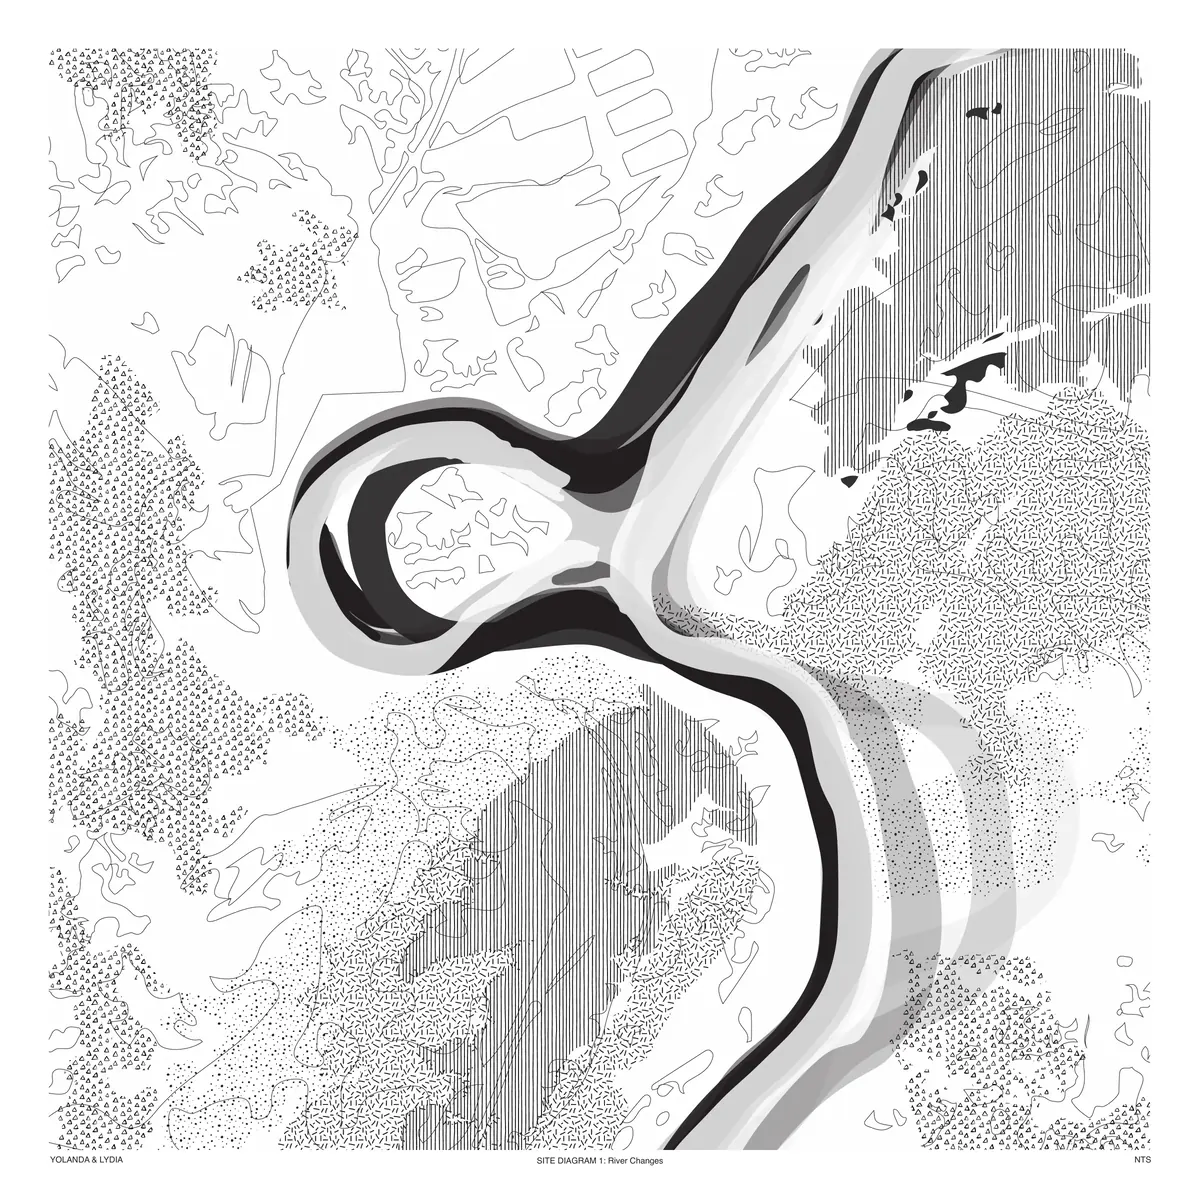
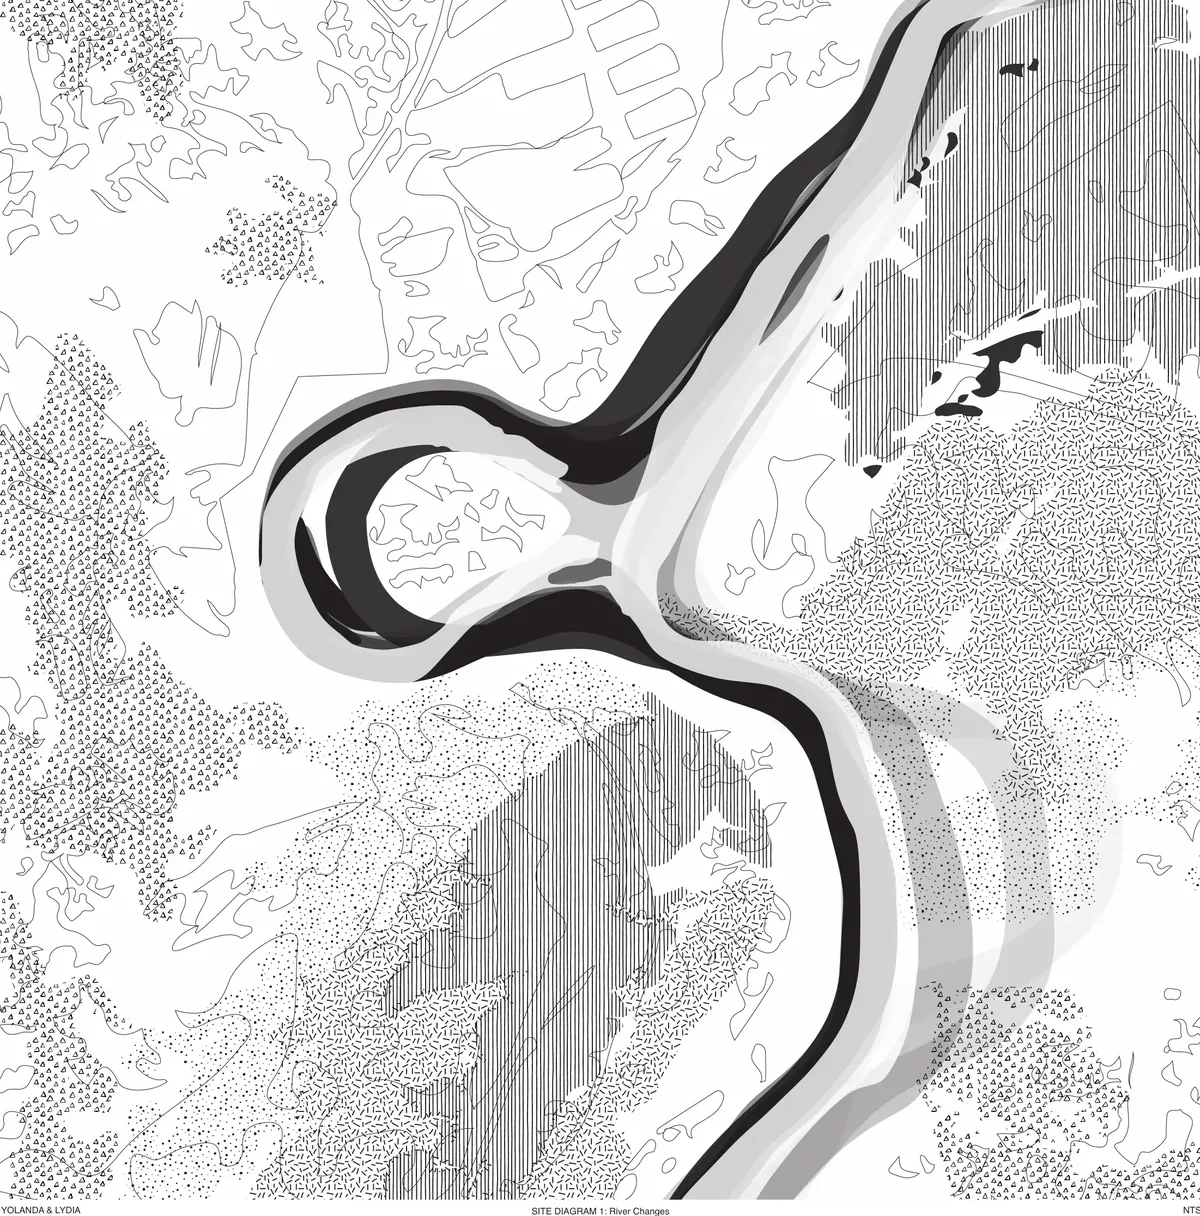
Clean up project images and shorten captions to lowercase titles
- BLAM: show the original two-rendering sheet as one image instead of
  two crops; add a white-edge-free cover cropped from the top rendering.
- River to Residence: crop the white margins off the river changes
  site diagram (also the cover).
- Captions across all projects are now short lowercase titles.
- AGENTS.md: add image rules for margins, covers, sheets and captions.

diff --git a/src/data/projects.js b/src/data/projects.js
@@ -21,84 +21,83 @@ export const projects = [
       {
         src: '/images/projects/architecture/foragers-hut/01-diagram-physical-college.webp',
         alt: 'The Living Cycles project image 01.',
-        caption: 'Site physical collage',
+        caption: 'site physical collage',
       },
       {
         src: '/images/projects/architecture/foragers-hut/02-diagram-trail.webp',
         alt: 'The Living Cycles project image 02.',
-        caption: 'Site trail exploration',
+        caption: 'site trail exploration',
       },
       {
         src: '/images/projects/architecture/foragers-hut/03-colorbook.webp',
         alt: 'The Living Cycles project image 03.',
-        caption:
-          'A designed and collective colorbook was hand-drawn to provide an interactive reference for foraging',
+        caption: 'foraging colorbook',
       },
       {
         src: '/images/projects/architecture/foragers-hut/04-diagram-map.webp',
         alt: 'The Living Cycles project image 04.',
-        caption: 'Construction materials mapping',
+        caption: 'construction materials mapping',
       },
       {
         src: '/images/projects/architecture/foragers-hut/05-diagram-strategy.webp',
         alt: 'The Living Cycles project image 05.',
-        caption: 'Experiment on the combination of easy-foraging materials in various techniques',
+        caption: 'material combination experiment',
       },
       {
         src: '/images/projects/architecture/foragers-hut/06-section.webp',
         alt: 'The Living Cycles project image 06.',
-        caption: 'Section',
+        caption: 'section',
       },
       {
         src: '/images/projects/architecture/foragers-hut/07-plan.svg',
         alt: 'The Living Cycles project image 07.',
         className: 'image-white-background',
-        caption: 'Zoomed-in Plan',
+        caption: 'zoomed-in plan',
       },
       {
         src: '/images/projects/architecture/foragers-hut/08-section-detail.webp',
         alt: 'The Living Cycles project image 08.',
-        caption: 'Detailed section',
+        caption: 'detailed section',
       },
       {
         src: '/images/projects/architecture/foragers-hut/09-model-01.webp',
         alt: 'The Living Cycles project image 09.',
-        caption: 'Model photo',
+        caption: 'model photo',
       },
       {
         src: '/images/projects/architecture/foragers-hut/10-model-03.webp',
         alt: 'The Living Cycles project image 10.',
-        caption: 'Model photo',
+        caption: 'model photo',
       },
       {
         src: '/images/projects/architecture/foragers-hut/11-model-02.webp',
         alt: 'The Living Cycles project image 11.',
-        caption: 'Model photo',
+        caption: 'model photo',
       },
       {
         src: '/images/projects/architecture/foragers-hut/12-model-detail-01.webp',
         alt: 'The Living Cycles project image 12.',
-        caption: 'Model photo',
+        caption: 'model photo',
       },
       {
         src: '/images/projects/architecture/foragers-hut/13-model-detail-03.webp',
         alt: 'The Living Cycles project image 13.',
-        caption: 'Model photo',
+        caption: 'model photo',
       },
       {
         src: '/images/projects/architecture/foragers-hut/14-model-detail-04.webp',
         alt: 'The Living Cycles project image 14.',
-        caption: 'Model photo',
+        caption: 'model photo',
       },
       {
         src: '/images/projects/architecture/foragers-hut/15-model-detail-02.webp',
         alt: 'The Living Cycles project image 15.',
-        caption: 'Model photo',
+        caption: 'model photo',
       },
       {
         src: '/images/projects/architecture/foragers-hut/16-model-detail-05.webp',
         alt: 'The Living Cycles project image 16.',
-        caption: 'Model photo',
+        caption: 'model photo',
       },
     ],
   },
@@ -122,54 +121,52 @@ export const projects = [
       {
         src: '/images/projects/architecture/between-wind-and-threshold/01-model-balcony-detail.webp',
         alt: 'Between Wind and Threshold project image 01.',
-        caption: 'Balcony model detail',
+        caption: 'balcony model detail',
       },
       {
         src: '/images/projects/architecture/between-wind-and-threshold/02-elevation-oblique.webp',
         alt: 'Between Wind and Threshold project image 02.',
-        caption: 'Elevation oblique',
+        caption: 'elevation oblique',
       },
       {
         src: '/images/projects/architecture/between-wind-and-threshold/03-diagram-program-circulation.webp',
         alt: 'Between Wind and Threshold project image 03.',
-        caption: 'Unit type, unit package, concept development, program and circulation',
+        caption: 'program and circulation diagram',
       },
       {
         src: '/images/projects/architecture/between-wind-and-threshold/04-section-oblique.webp',
         alt: 'Between Wind and Threshold project image 04.',
-        caption: 'Section oblique',
+        caption: 'section oblique',
       },
       {
         src: '/images/projects/architecture/between-wind-and-threshold/05-interior-view.webp',
         alt: 'Between Wind and Threshold project image 05.',
-        caption:
-          'Interior view. This unit compresses "living + landscape" into everyday routines: the reading corner, dining, and window-side planting are stitched together by one continuous band of light, forming an interior promenade where pausing and chance encounters feel natural.',
+        caption: 'interior view',
       },
       {
         src: '/images/projects/architecture/between-wind-and-threshold/06-north-facade-view.webp',
         alt: 'Between Wind and Threshold project image 06.',
-        caption:
-          'North facade view. The facade organized as a continuous perforated screen, punctured by shared balcony "rooms" that extend domestic life outward. This second skin filters daylight and views while creating a repeating social rhythm—small moments of care, gathering, and solitude—readable across the building elevation.',
+        caption: 'north facade view',
       },
       {
         src: '/images/projects/architecture/between-wind-and-threshold/07-model-section-cut.webp',
         alt: 'Between Wind and Threshold project image 07.',
-        caption: 'Sectional model',
+        caption: 'sectional model',
       },
       {
         src: '/images/projects/architecture/between-wind-and-threshold/08-model-facade-03.webp',
         alt: 'Between Wind and Threshold project image 08.',
-        caption: 'Model photo',
+        caption: 'model photo',
       },
       {
         src: '/images/projects/architecture/between-wind-and-threshold/09-model-facade-05.webp',
         alt: 'Between Wind and Threshold project image 09.',
-        caption: 'Model photo',
+        caption: 'model photo',
       },
       {
         src: '/images/projects/architecture/between-wind-and-threshold/10-model-facade-02.webp',
         alt: 'Between Wind and Threshold project image 10.',
-        caption: 'Model photo',
+        caption: 'model photo',
       },
     ],
   },
@@ -179,7 +176,7 @@ export const projects = [
     year: '2025',
     category: 'Architecture',
     featured: true,
-    cover: '/images/projects/architecture/blam/04-exterior-perspective-01.webp',
+    cover: '/images/projects/architecture/blam/cover.webp',
     summary:
       'A media archive and research center in the Venice Arsenale, defined by shifting volumes with a central atrium',
     description: [
@@ -195,27 +192,22 @@ export const projects = [
       {
         src: '/images/projects/architecture/blam/01-site-plan.webp',
         alt: 'BLAM project image 01.',
-        caption: 'Site plan',
+        caption: 'site plan',
       },
       {
         src: '/images/projects/architecture/blam/02-structure-program-diagram.webp',
         alt: 'BLAM project image 02.',
-        caption: 'Structure diagram, program diagram, and connection details',
+        caption: 'structure and program diagram',
       },
       {
         src: '/images/projects/architecture/blam/03-floor-plans.webp',
         alt: 'BLAM project image 03.',
-        caption: 'Ground floor, first floor, second floor, and top floor plans',
+        caption: 'floor plans',
       },
       {
-        src: '/images/projects/architecture/blam/04-exterior-perspective-01.webp',
+        src: '/images/projects/architecture/blam/04-exterior-perspectives.webp',
         alt: 'BLAM project image 04.',
-        caption: 'Exterior perspective',
-      },
-      {
-        src: '/images/projects/architecture/blam/05-exterior-perspective-02.webp',
-        alt: 'BLAM project image 05.',
-        caption: 'Exterior perspective',
+        caption: 'exterior perspectives',
       },
     ],
   },
@@ -239,68 +231,67 @@ export const projects = [
       {
         src: '/images/projects/architecture/breath-of-warmth/01-site-analysis.webp',
         alt: 'Breath of Warmth project image 01.',
-        caption:
-          'This site analysis synthesizes annual patterns of dry-bulb temperature, relative humidity, solar radiation, wind speed, and snowfall to define the environmental pressures shaping a passive tiny-house design. These elements are translated into passive design drivers. Cold, windy, snow-heavy months prioritize a tight, highly insulated, moisture-safe envelope, while summer sun and humidity demand controlled glazing, shading, and tuned ventilation.',
+        caption: 'site analysis',
       },
       {
         src: '/images/projects/architecture/breath-of-warmth/02-site-aerial.webp',
         alt: 'Breath of Warmth project image 02.',
-        caption: 'Site aerial',
+        caption: 'site aerial',
       },
       {
         src: '/images/projects/architecture/breath-of-warmth/03-site-street.webp',
         alt: 'Breath of Warmth project image 03.',
-        caption: 'Site street view',
+        caption: 'site street view',
       },
       {
         src: '/images/projects/architecture/breath-of-warmth/04-exterior-render.webp',
         alt: 'Breath of Warmth project image 04.',
-        caption: 'Exterior render',
+        caption: 'exterior render',
       },
       {
         src: '/images/projects/architecture/breath-of-warmth/05-diagram-strategy.webp',
         alt: 'Breath of Warmth project image 05.',
-        caption: 'Humidity regulation, thermal buffer zone, and cross ventilation',
+        caption: 'passive strategy diagram',
       },
       {
         src: '/images/projects/architecture/breath-of-warmth/06-massing-step-1.webp',
         alt: 'Breath of Warmth project image 06.',
-        caption: 'Step 1: Original site',
+        caption: 'massing step 1',
       },
       {
         src: '/images/projects/architecture/breath-of-warmth/07-massing-step-2.webp',
         alt: 'Breath of Warmth project image 07.',
-        caption: 'Step 2: Push back to avoid east and south shade; add basement for warmth',
+        caption: 'massing step 2',
       },
       {
         src: '/images/projects/architecture/breath-of-warmth/08-massing-step-3.webp',
         alt: 'Breath of Warmth project image 08.',
-        caption: 'Step 3: Lifted 4ft up to bring natural daylight into basement',
+        caption: 'massing step 3',
       },
       {
         src: '/images/projects/architecture/breath-of-warmth/09-massing-step-4.webp',
         alt: 'Breath of Warmth project image 09.',
-        caption: 'Step 4: NW-SE cut improves ventilation, essential for the sauna to prevent moisture',
+        caption: 'massing step 4',
       },
       {
         src: '/images/projects/architecture/breath-of-warmth/10-massing-step-5.webp',
         alt: 'Breath of Warmth project image 10.',
-        caption: 'Step 5: Pushed in SE corner to avoid shade; create potential exit/outdoor space',
+        caption: 'massing step 5',
       },
       {
         src: '/images/projects/architecture/breath-of-warmth/11-massing-step-6.webp',
         alt: 'Breath of Warmth project image 11.',
-        caption: 'Step 6: North entrance with ramp, snow barrier, and roof; south side maximizes sun',
+        caption: 'massing step 6',
       },
       {
         src: '/images/projects/architecture/breath-of-warmth/12-3d-diagram-detailed-section.webp',
         alt: 'Breath of Warmth project image 12.',
-        caption: '3D diagram and detailed section',
+        caption: '3d diagram and detailed section',
       },
       {
         src: '/images/projects/architecture/breath-of-warmth/13-model.webp',
         alt: 'Breath of Warmth project image 13.',
-        caption: 'Model photo',
+        caption: 'model photo',
       },
     ],
   },
@@ -323,60 +314,57 @@ export const projects = [
       {
         src: '/images/projects/architecture/river-to-residence/01-site-diagram-river-changes.webp',
         alt: 'River to Residence project image 01.',
-        caption: 'Site diagram 1: River changes',
+        caption: 'site diagram: river changes',
       },
       {
         src: '/images/projects/architecture/river-to-residence/02-diagram-water-circulation.webp',
         alt: 'River to Residence project image 02.',
-        caption: 'Water circulation diagram',
+        caption: 'water circulation diagram',
       },
       {
         src: '/images/projects/architecture/river-to-residence/03-diagram-deposit.webp',
         alt: 'River to Residence project image 03.',
-        caption:
-          'These diagrams map the hydrologic circulation that sustains an oxbow wetland—from atmospheric transport and precipitation to surface runoff, groundwater recharge, and evapotranspiration. As the river migrates and the meander is cut off, slower water velocities promote fine sediment deposition, building stratified soils that reshape the basin over time, while emergent plants (reeds, cattails, bulrushes) stabilize edges and support diverse habitat.',
+        caption: 'biology diagram',
       },
       {
         src: '/images/projects/architecture/river-to-residence/04-site-model-01.webp',
         alt: 'River to Residence project image 04.',
-        caption:
-          'Site diagram. Using different materials to demonstrate the deposit changes which has been shaping the oxbow river. The soil, rock and grass that borrowed from real life gives the diagram a vivid illustration while the acrylic subtly reveals how the time shapes the river by layering.',
+        caption: 'site diagram model',
       },
       {
         src: '/images/projects/architecture/river-to-residence/05-site-model-02.webp',
         alt: 'River to Residence project image 05.',
-        caption: 'Site diagram model',
+        caption: 'site diagram model',
       },
       {
         src: '/images/projects/architecture/river-to-residence/06-site-model-03.webp',
         alt: 'River to Residence project image 06.',
-        caption: 'Site diagram model',
+        caption: 'site diagram model',
       },
       {
         src: '/images/projects/architecture/river-to-residence/07-site-model-04.webp',
         alt: 'River to Residence project image 07.',
-        caption: 'Site diagram model',
+        caption: 'site diagram model',
       },
       {
         src: '/images/projects/architecture/river-to-residence/08-model.webp',
         alt: 'River to Residence project image 08.',
-        caption: 'Model photo',
+        caption: 'model photo',
       },
       {
         src: '/images/projects/architecture/river-to-residence/09-plan.webp',
         alt: 'River to Residence project image 09.',
-        caption:
-          'Following the research, the gallery was designed to adapt the river changes. Four modules are connected to set up a more welcoming space. While the dark tone highlights the services and the bright part presents the activity area, one part sits on the other side of river. By providing decks at the river-side, they connect the open gathering space with gallery on the left.',
+        caption: 'plan',
       },
       {
         src: '/images/projects/architecture/river-to-residence/10-site-section.webp',
         alt: 'River to Residence project image 10.',
-        caption: 'Site section',
+        caption: 'site section',
       },
       {
         src: '/images/projects/architecture/river-to-residence/11-site-plan.webp',
         alt: 'River to Residence project image 11.',
-        caption: 'Site plan',
+        caption: 'site plan',
       },
     ],
   },

diff --git a/AGENTS.md b/AGENTS.md
@@ -9,6 +9,14 @@
 - Match the existing CSS style in `src/styles.css`; avoid unrelated visual refactors.
 - Do not add backend, persistence, authentication, or environment-variable handling unless explicitly requested.
 
+## Image Rules (always apply unless the owner asks otherwise)
+
+- No white margins: crop blank white borders off every served project image, both the full-size file and its `-1200` copy. Measure the real content edge; do not crop into the drawing itself. If an image's drawing already runs to the edge, leave it.
+- Covers (`cover`) must have no white edges and display centered; keep the default centered `object-fit: cover`, with no offset `object-position`.
+- Multi-image sheets: when the original source puts several renderings on one sheet, serve the original sheet as a single image instead of splitting it into crops, unless asked to split.
+- Captions are short titles only (for example `biology diagram`, `site plan`, `model photo`). No descriptive sentences, explanations, or lists of contents.
+- Captions are all lowercase, including words like `3d`. Write them lowercase in `src/data/projects.js`; do not rely on CSS `text-transform`.
+
 ## Commands
 
 ```bash
